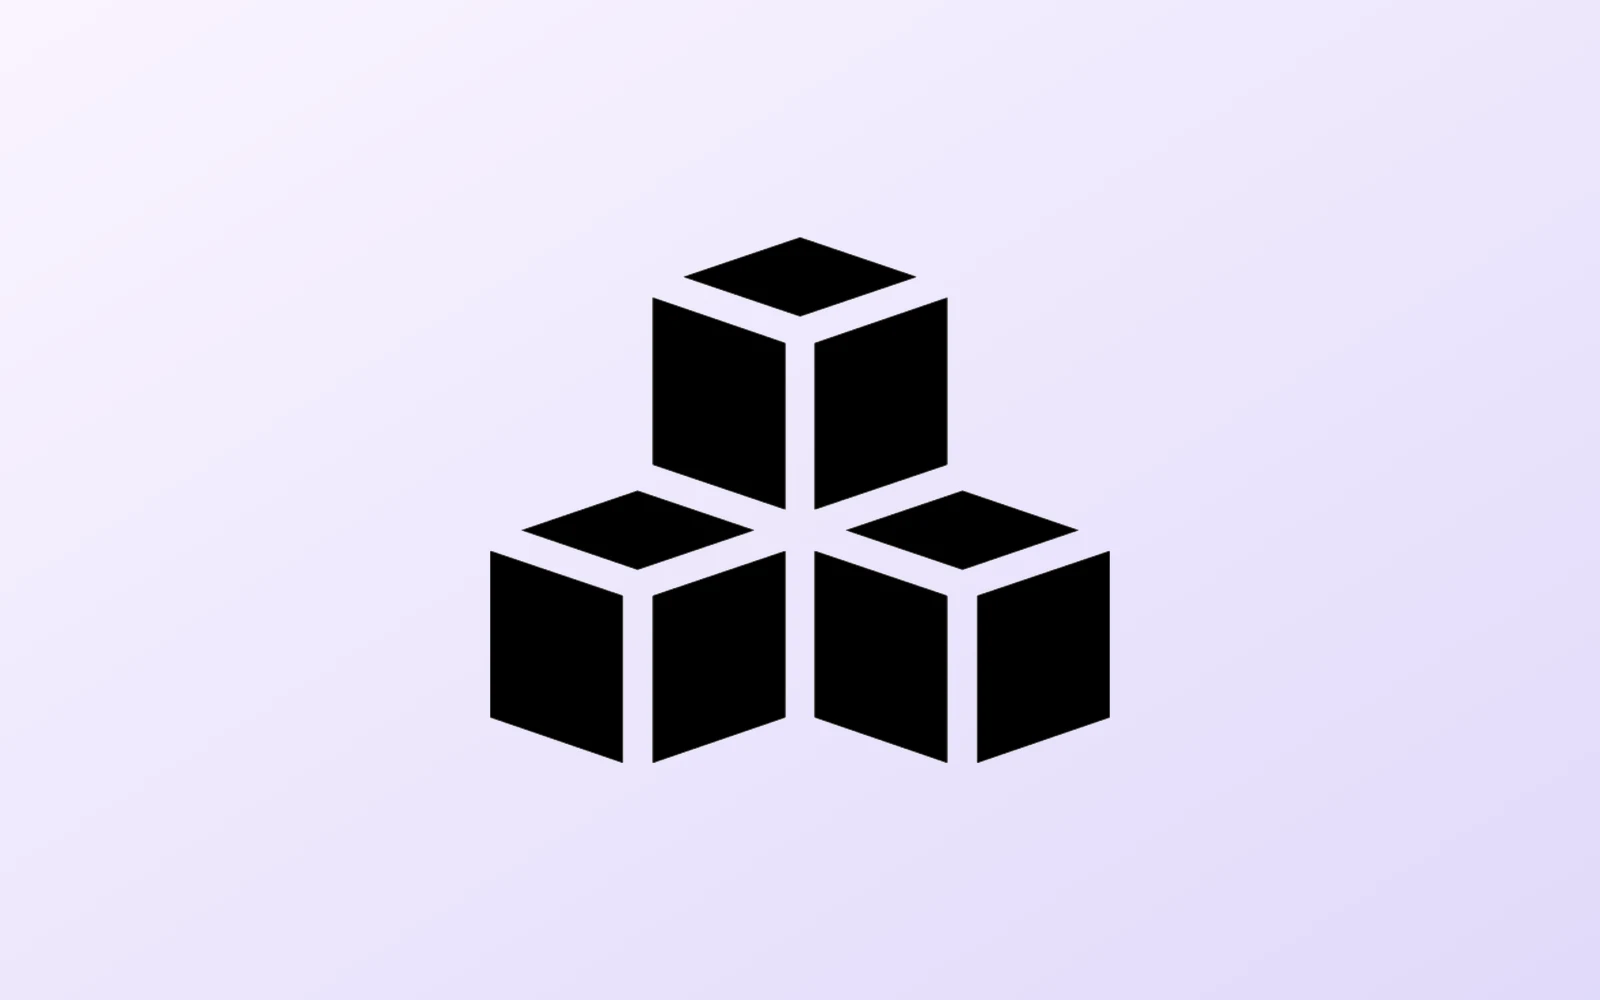
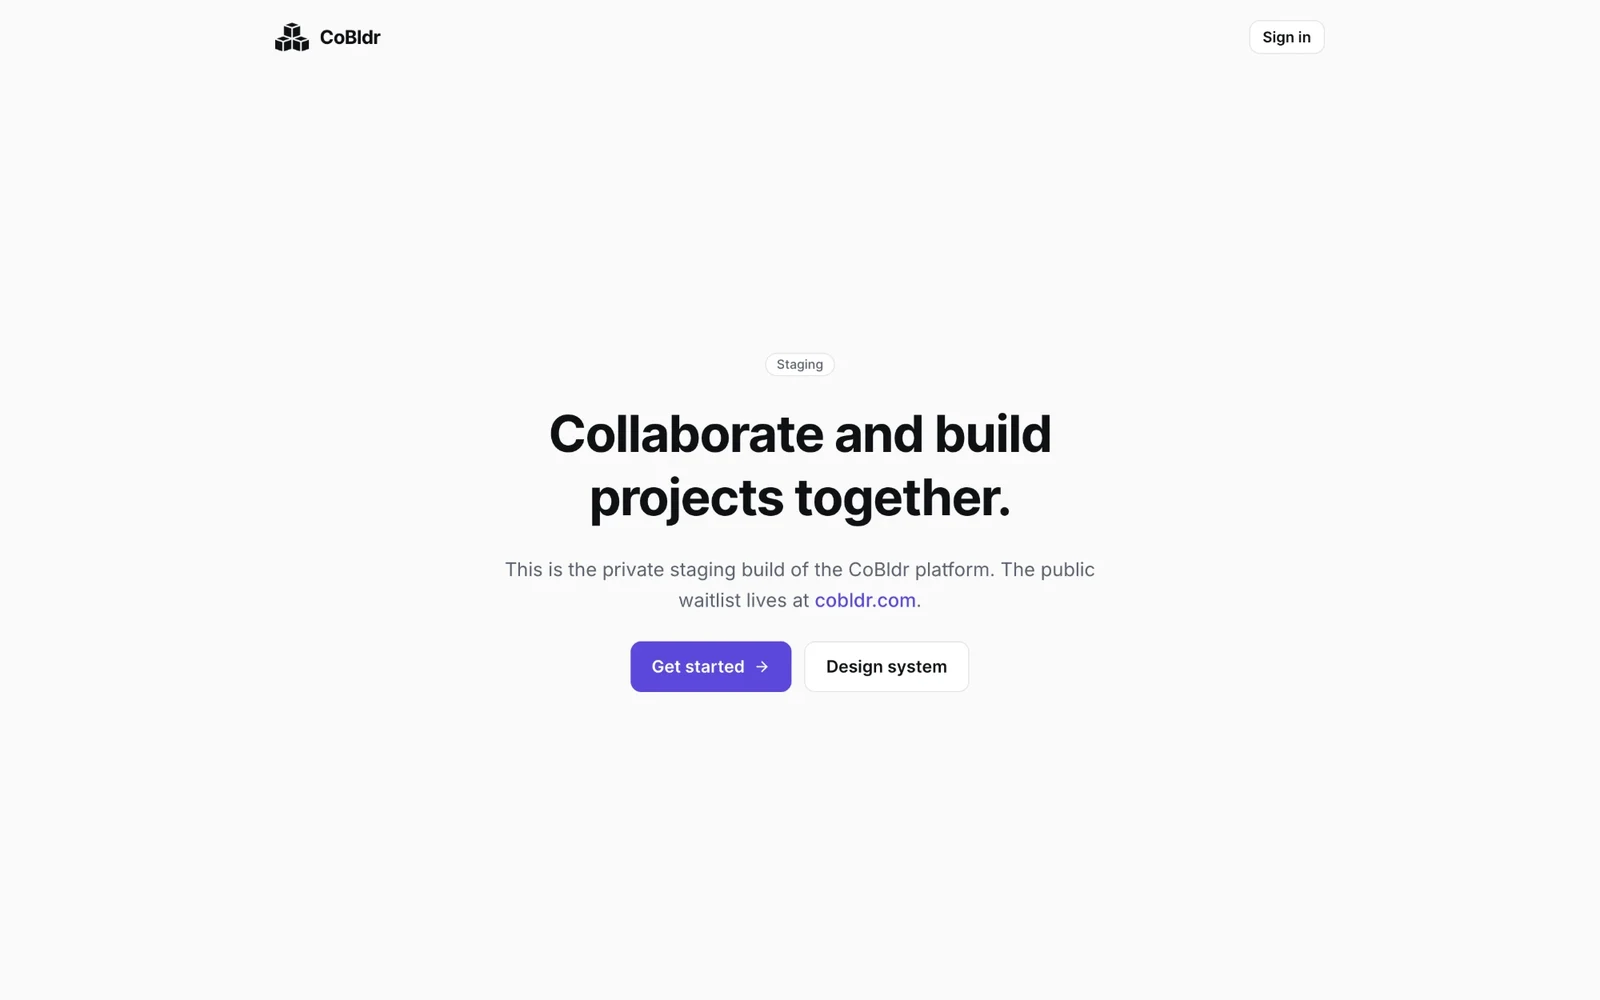
Use web app screenshot for CoBldr and note the app is in staging
Claude-Session: https://claude.ai/code/session_01Vj3MWN4cFcpVA5HRTDM8uj

Changed region(s): [[0.2812, 0.217, 1.0, 1.0], [0.1562, 0.031, 0.25, 0.062], [0.7812, 0.031, 0.8125, 0.062]]

diff --git a/projects.html b/projects.html
@@ -200,14 +200,14 @@
           </article>
           <article class="sample" data-cat="coding">
             <a class="sample__shot" href="https://cobldr.com/" target="_blank" rel="noopener" aria-label="Open the CoBldr website">
-              <img src="assets/work/cobldr.webp" alt="The CoBldr logo: three stacked cubes" loading="lazy" decoding="async" onerror="this.parentNode.classList.add('empty');this.remove()">
+              <img src="assets/work/cobldr.webp" alt="The CoBldr web app in staging: Collaborate and build projects together, with Get started and Design system buttons" loading="lazy" decoding="async" onerror="this.parentNode.classList.add('empty');this.remove()">
               <span class="sample__fallback" aria-hidden="true">CoBldr</span>
             </a>
             <div class="sample__body">
               <p class="sample__kind">Web platform · Coding · Active project</p>
               <h3>CoBldr</h3>
               <dl>
-                <dt>What it is</dt><dd>A platform for people to collaborate and build projects together, where they team up to turn ideas into finished projects. The waitlist site is live at cobldr.com while the app is in development.</dd>
+                <dt>What it is</dt><dd>A platform for people to collaborate and build projects together, where they team up to turn ideas into finished projects. The waitlist site is live at cobldr.com, and the web app is in staging.</dd>
                 <dt>Who it's for</dt><dd>People with an idea who need collaborators to see it through.</dd>
                 <dt>What I did</dt><dd>Started the project in October 2026. Built the waitlist site with HTML, CSS, and JavaScript, including a signup form that asks what people are building and what's stopping them. Built the signup backend with Google Apps Script, and set up the brand assets. I am building the app itself.</dd>
               </dl>

diff --git a/portfolio.html b/portfolio.html
@@ -159,7 +159,7 @@
             <div class="job__body">
               <h4 class="job__title">CoBldr: collaborate and build projects together <small>Active project</small></h4>
               <ul>
-                <li>Building a platform where people team up to turn ideas into finished projects. The app is in development.</li>
+                <li>Building a platform where people team up to turn ideas into finished projects. The web app is in staging.</li>
                 <li>Launched the waitlist site at <a href="https://cobldr.com/" target="_blank" rel="noopener">cobldr.com</a> with HTML, CSS, and JavaScript, including a signup form that asks what people are building and what's stopping them.</li>
                 <li>Built the signup backend with Google Apps Script: signups are added to a Google Sheet, with email validation, protection against spreadsheet-formula injection, and duplicate handling.</li>
                 <li>Set up the brand assets, including the logo mark, favicons, and home-screen icons, generated from a single master file with a script.</li>

diff --git a/README.md b/README.md
@@ -41,4 +41,4 @@ The site is served at **https://christophernussbaum.com** (GitHub Pages custom d
 Pages are linked and canonicalized without `.html` (`/portfolio`, `/services`, `/projects`, `/book`, and `/` for home). GitHub Pages serves `portfolio.html` at `/portfolio` automatically; a short script in each page also rewrites an old `.html` address to the clean one on the custom domain. Keep new internal links, canonical tags, `og:url`, and `sitemap.xml` entries extensionless.
 
 ## CoBldr
-The CoBldr card (Projects, Coding filter) and the "Current project" entry on the Portfolio page describe the public waitlist site at cobldr.com. The card image `assets/work/cobldr.webp` is the CoBldr logo on a purple canvas; replace it with a screenshot of the site or app when you have one.
+The CoBldr card (Projects, Coding filter) and the "Current project" entry on the Portfolio page describe the public waitlist site at cobldr.com. The card image `assets/work/cobldr.webp` is a screenshot of the web app's staging build (with the browser bar cropped off); replace it when the app changes.
